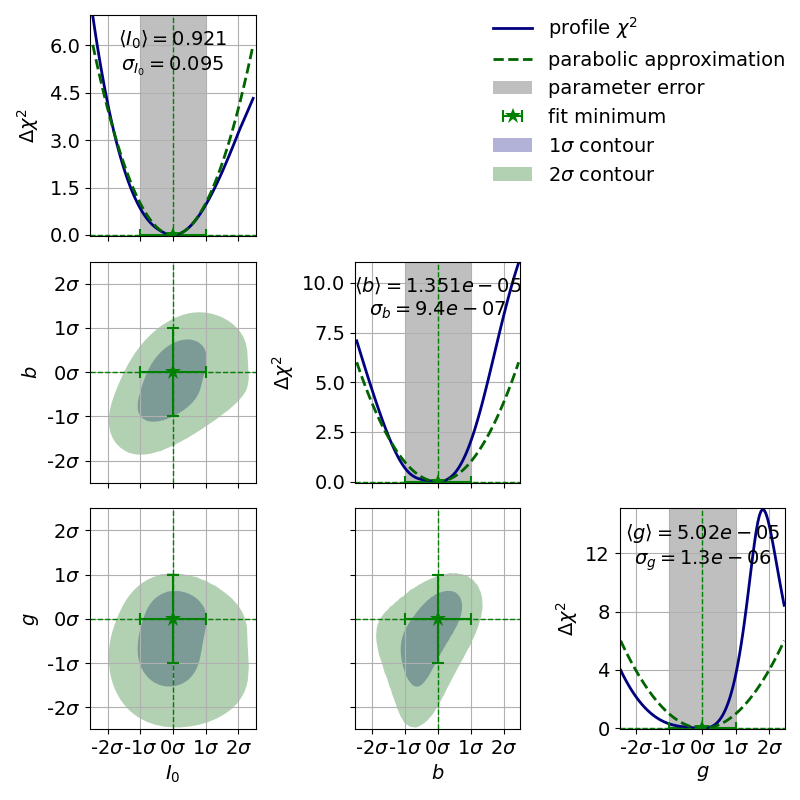
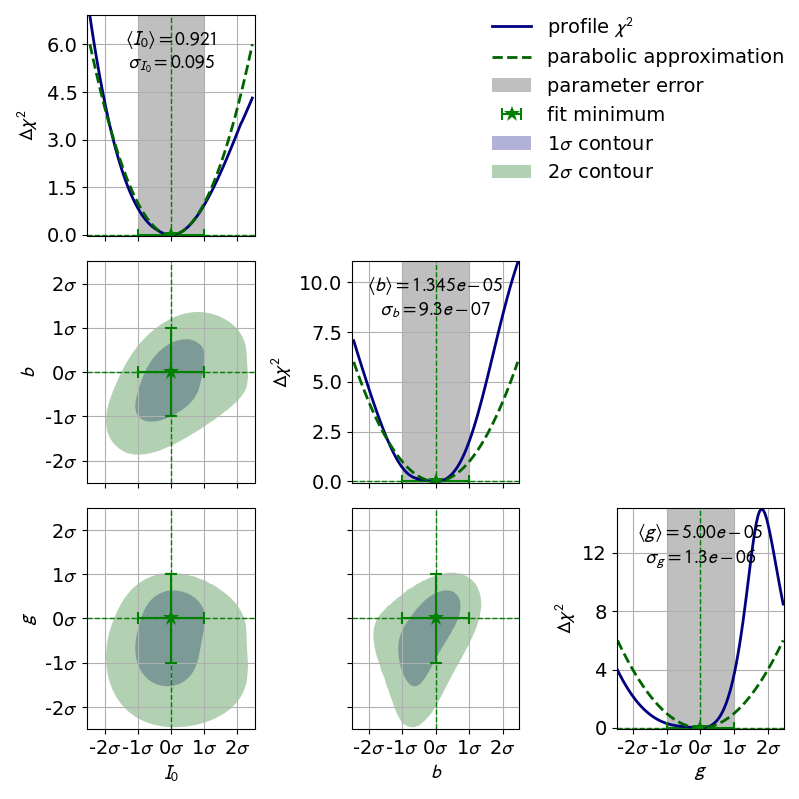
[doc] Double slit axis labels, asymm par errs, adjusted beginner's guide

diff --git a/examples/003_profiling/02_double_slit.py b/examples/003_profiling/02_double_slit.py
@@ -31,9 +31,14 @@ def _generate_dataset(output_filename='02_double_slit_data.yml'):
 
     data = XYContainer(x_data=xy_data[0], y_data=xy_data[1])
 
-    data.add_error('x', 0.002, relative=False)
-    data.add_error('y', [0.02, 0.02, 0.02, 0.02, 0.04, 0.02, 0.05, 0.03, 0.05, 0.08, 0.05, 0.03,
-                         0.05, 0.01, 0.04, 0.03, 0.03, 0.02, 0.01], relative=False)
+    data.add_error('x', 0.002, relative=False, name='x_uncor_err')
+    data.add_error(
+        'y',
+        [0.02, 0.02, 0.02, 0.02, 0.04, 0.02, 0.05, 0.03, 0.05, 0.08, 0.05, 0.03, 0.05, 0.01, 0.04,
+         0.03, 0.03, 0.02, 0.01],
+        relative=False,
+        name='y_uncor_err'
+    )
 
     data.to_file(output_filename)
 
@@ -113,7 +118,9 @@ cpf.plot_profiles_contours_matrix(parameters=['i_0', 'b', 'g'],
 
 # To see the fit results, plot using Plot:
 p = Plot(fit_objects=fit)
-p.plot(fit_info=True)
+p.x_label = r"$\theta$"
+p.y_label = r"$I$"
+p.plot(asymmetric_parameter_errors=True)
 
 # Show the fit results:
 plt.show()

diff --git a/doc/src/parts/beginners_guide.rst b/doc/src/parts/beginners_guide.rst
@@ -340,7 +340,7 @@ Python
     :control_text: 02_double_slit.py
 
     .. literalinclude:: ../../../examples/003_profiling/02_double_slit.py
-        :lines: 7-
+        :lines: 13-
 
 
 .. _x_errors:
